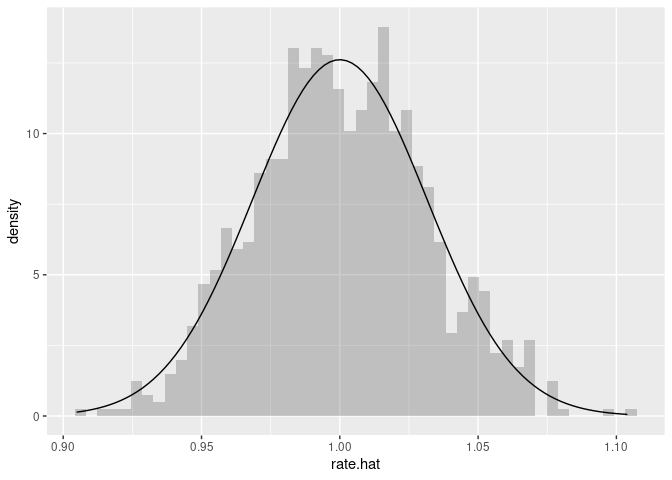
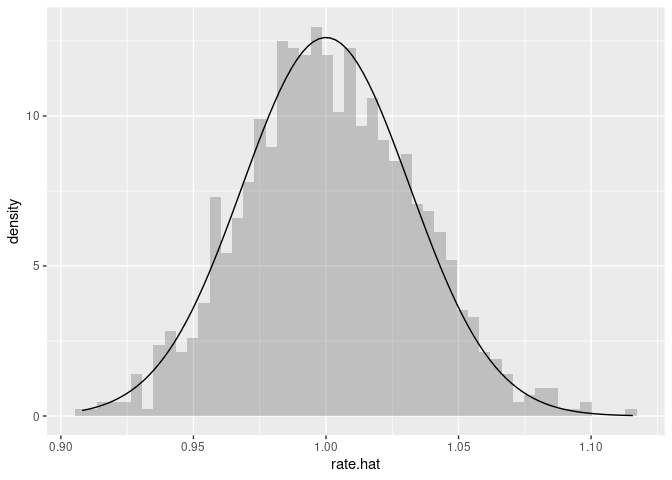
updates

diff --git a/README.md b/README.md
@@ -17,21 +17,8 @@ You can install the development version of `algebraic.mle` from
 [GitHub](https://github.com/) with:
 
 ``` r
-#install.packages("devtools")
+install.packages("devtools")
 devtools::install_github("queelius/algebraic.mle")
-#> Downloading GitHub repo queelius/algebraic.mle@HEAD
-#> 
-#>      checking for file ‘/tmp/RtmpoJ0zsT/remotes6d18d50f6e26a/queelius-algebraic.mle-3e1c165/DESCRIPTION’ ...  ✓  checking for file ‘/tmp/RtmpoJ0zsT/remotes6d18d50f6e26a/queelius-algebraic.mle-3e1c165/DESCRIPTION’
-#>   ─  preparing ‘algebraic.mle’:
-#>    checking DESCRIPTION meta-information ...  ✓  checking DESCRIPTION meta-information
-#>   ─  checking for LF line-endings in source and make files and shell scripts
-#>   ─  checking for empty or unneeded directories
-#>    Omitted ‘LazyData’ from DESCRIPTION
-#>   ─  building ‘algebraic.mle_0.1.0.tar.gz’
-#>      
-#> 
-#> Installing package into '/usr/local/lib/R/site-library'
-#> (as 'lib' is unspecified)
 ```
 
 ## MLE of exponential distribution’s rate parameter
@@ -56,18 +43,18 @@ from this sample (data frame) with:
 ``` r
 print(x)
 #> # A tibble: 1,000 × 1
-#>         x
-#>     <dbl>
-#>  1 0.146 
-#>  2 0.182 
-#>  3 1.35  
-#>  4 0.0481
-#>  5 1.25  
-#>  6 0.189 
-#>  7 1.43  
-#>  8 0.111 
-#>  9 0.0494
-#> 10 0.617 
+#>        x
+#>    <dbl>
+#>  1 5.42 
+#>  2 0.263
+#>  3 0.897
+#>  4 0.926
+#>  5 1.46 
+#>  6 1.11 
+#>  7 2.34 
+#>  8 0.169
+#>  9 1.22 
+#> 10 0.918
 #> # … with 990 more rows
 ```
 
@@ -97,24 +84,24 @@ rate.hat <- mle_exp(x$x)
 summary(rate.hat)
 #> Maximum likelihood estimator, of type mle_exp ,
 #> is normally distributed with mean
-#> [1] 0.9509951
+#> [1] 0.9557682
 #> and variance-covariance
 #>              [,1]
-#> [1,] 0.0009043917
+#> [1,] 0.0009134928
 #> ---
-#> The asymptotic mean squared error 0.0009043917 
+#> The asymptotic mean squared error 0.0009134928 
 #> The asymptotic 95% confidence interval is
-#>       2.5 %   97.5 %
-#> 1 0.9015292 1.000461
-#> The log-likelihood is -1050.246 
-#> The AIC is 2102.493
+#>      2.5 %   97.5 %
+#> 1 0.906054 1.005482
+#> The log-likelihood is -1045.24 
+#> The AIC is 2092.48
 ```
 
 We can show the point estimator with:
 
 ``` r
 point(rate.hat)
-#> [1] 0.9509951
+#> [1] 0.9557682
 ```
 
 We can show the Fisher information and variance-covariance matrices
@@ -123,10 +110,10 @@ with:
 ``` r
 fisher_info(rate.hat)
 #>          [,1]
-#> [1,] 1105.716
+#> [1,] 1094.699
 vcov(rate.hat)
 #>              [,1]
-#> [1,] 0.0009043917
+#> [1,] 0.0009134928
 ```
 
 (If `rate.hat` had been a vector, `vcov` would have output a
@@ -137,8 +124,8 @@ We can show the confidence interval with:
 
 ``` r
 confint(rate.hat)
-#>       2.5 %   97.5 %
-#> 1 0.9015292 1.000461
+#>      2.5 %   97.5 %
+#> 1 0.906054 1.005482
 ```
 
 ## Sampling distribution of the MLE
@@ -223,10 +210,10 @@ transformation *g*(*λ̂*) such that its expectation is 2*λ*, i.e.,
 f <- function(lambda) 2*lambda
 ```
 
-We compute the MLE of 2*λ̂* with:
+We compute the MLE of 2*λ̂* (using a simulation size *n* = 1000) with:
 
 ``` r
-g.hat <- rmap(rate.hat,f)
+g.hat <- rmap(rate.hat,f,n=1000)
 ```
 
 Then, var (*f*(*λ̂*)) = 4*λ*<sup>2</sup>/*n*. Letting *λ* = 1, we see
@@ -237,10 +224,10 @@ close to what we obtained:
 
 ``` r
 point(g.hat)
-#> [1] 1.90199
+#> [1] 1.911536
 vcov(g.hat)
 #>             [,1]
-#> [1,] 0.003469069
+#> [1,] 0.003711212
 ```
 
 ## Weighted MLE: a weighted sum of maximum likelihood estimators
@@ -260,56 +247,74 @@ the data in *θ̂*<sub>1</sub>, …, *θ̂*<sub>*k*</sub> is given by the
 inverse-variance weighted mean,
 *θ̂* = (∑*I*<sub>*j*</sub>(*θ*))<sup>−1</sup>(∑*I*<sub>*j*</sub>(*θ*)*θ*<sub>*j*</sub>).
 
-To evaluate the performance of this estimator, we generate a sample of
-*N* = 1000 from EXP (*λ*=1). We compute the MLE for the observed sample,
-denoted by *θ*. We then divide the observed sample into *r* = 5
-sub-samples, each of size *N*/*r* = 100, and compute the MLE for each
-sub-sampled, denoted by *θ*<sup>(1)</sup>, …, *θ*<sup>(*r*)</sup>.
-Finally, we come these MLEs into the weighted MLE, denoted by
-*θ*<sub>*w*</sub>.
+### Example
+
+To evaluate the performance of the weighted MLE, we generate a sample of
+*N* = 1000 observations from EXP (*λ*=1) and compute the MLE for the
+observed sample, denoted by *θ*.
+
+We then divide the observed sample into *r* = 5 sub-samples, each of
+size *N*/*r* = 100, and compute the MLE for each sub-sampled, denoted by
+*θ*<sup>(1)</sup>, …, *θ*<sup>(*r*)</sup>.
+
+Finally, we do a weighted combination these MLEs to form the weighted
+MLE, denoted by *θ*<sub>*w*</sub>:
 
 ``` r
 N <- 1000
 r <- 5
-data3 <- rexp(N)
-data3.mat <- matrix(data3,nrow=r)
-mles <- list(length=r)
+samp <- rexp(N)
+samp.sub <- matrix(samp,nrow=r)
+mles.sub <- list(length=r)
 for (i in 1:r)
-    mles[[i]] <- mle_exp(data3.mat[i,])
+    mles.sub[[i]] <- mle_exp(samp.sub[i,])
 
-mle.wt <- mle_weighted(mles)
-summary(mle.wt)
-#> Maximum likelihood estimator, of type mle_weighted ,
-#> is normally distributed with mean
-#>           [,1]
-#> [1,] 0.9592375
-#> and variance-covariance
-#>              [,1]
-#> [1,] 0.0009211142
-#> ---
-#> The asymptotic mean squared error 0.0009211142 
-#> The asymptotic 95% confidence interval is
-#>       2.5 %   97.5 %
-#> 1 0.9093164 1.009159
-#> The log-likelihood is -1040.018 
-#> The AIC is 2082.035
-
-mle.tot <- mle_exp(data3)
-summary(mle.tot)
-#> Maximum likelihood estimator, of type mle_exp ,
-#> is normally distributed with mean
-#> [1] 0.9602567
-#> and variance-covariance
-#>              [,1]
-#> [1,] 0.0009220928
-#> ---
-#> The asymptotic mean squared error 0.0009220928 
-#> The asymptotic 95% confidence interval is
-#>       2.5 %   97.5 %
-#> 1 0.9103091 1.010204
-#> The log-likelihood is -1040.555 
-#> The AIC is 2083.109
+mle.wt <- mle_weighted(mles.sub)
+mle <- mle_exp(samp)
 ```
+
+We show the results in the following table:
+<table>
+<caption>
+Weighted MLE vs MLE
+</caption>
+<thead>
+<tr>
+<th style="text-align:left;">
+</th>
+<th style="text-align:right;">
+point estimate
+</th>
+<th style="text-align:right;">
+variance
+</th>
+</tr>
+</thead>
+<tbody>
+<tr>
+<td style="text-align:left;">
+weighted MLE
+</td>
+<td style="text-align:right;">
+0.988
+</td>
+<td style="text-align:right;">
+0.001
+</td>
+</tr>
+<tr>
+<td style="text-align:left;">
+MLE
+</td>
+<td style="text-align:right;">
+0.996
+</td>
+<td style="text-align:right;">
+0.001
+</td>
+</tr>
+</tbody>
+</table>
 
 We see that *θ̂* and *θ̂*<sub>*w*</sub> model approximately the same
 sampling distribution for *θ*.
